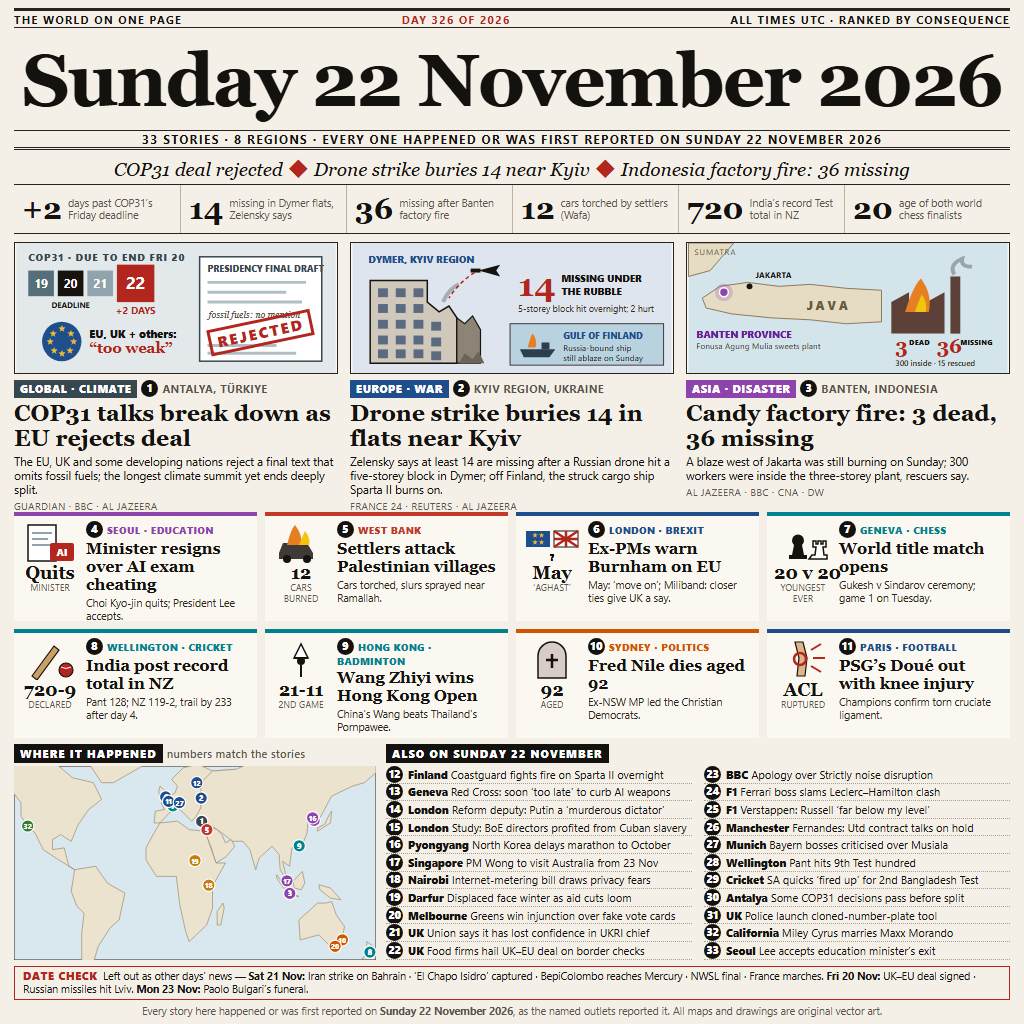
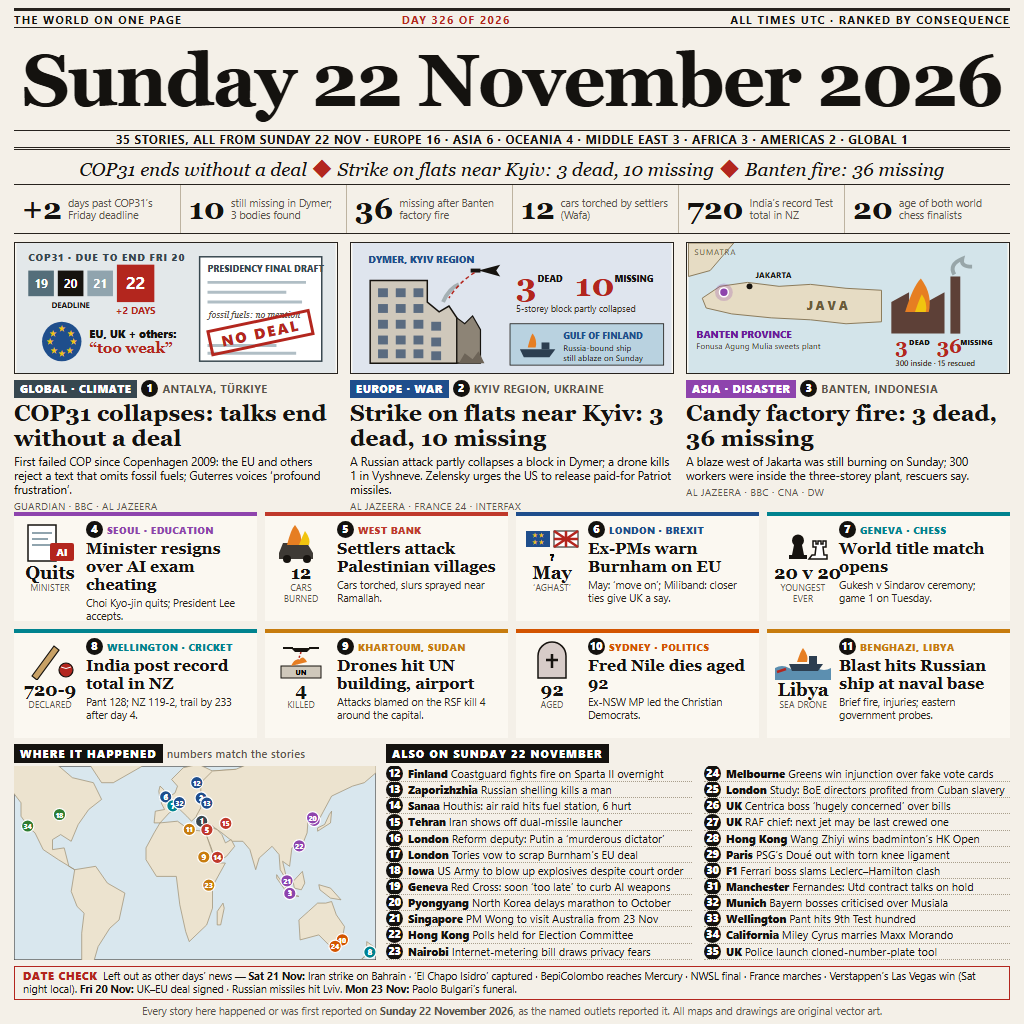
Add Sunday afternoon news: COP31 ends without deal, Dymer toll, Khartoum and Benghazi drone strikes, region tally

diff --git a/src/page.html b/src/page.html
@@ -19,7 +19,7 @@
   #top .red { color: var(--red); }
   #date { left: 50%; transform: translateX(-50%); top: 34px; font-size: 80px; line-height: 92px; font-weight: 700; letter-spacing: -.025em; white-space: nowrap; }
   #sub { left: 14px; right: 14px; top: 130px; height: 20px; border-top: 1px solid var(--rule); border-bottom: 3px double var(--rule);
-         text-align: center; font-size: 11.5px; font-weight: 700; letter-spacing: .14em; line-height: 17px; }
+         text-align: center; font-size: 11.5px; font-weight: 700; letter-spacing: .07em; line-height: 17px; white-space: nowrap; }
   #lead { left: 14px; right: 14px; top: 154px; text-align: center; font-size: 19px; font-style: italic; white-space: nowrap; }
   #lead b { color: var(--red); font-style: normal; padding: 0 6px; }
 
@@ -57,7 +57,7 @@
   .hd { background: var(--ink); color: #fff; padding: 2px 6px; }
   #map { left: 14px; top: 766px; }
   #list { left: 386px; top: 766px; width: 624px; display: grid; grid-template-columns: 1fr 1fr; grid-auto-flow: column;
-          grid-template-rows: repeat(11, 17.6px); column-gap: 12px; }
+          grid-template-rows: repeat(12, 16.15px); column-gap: 12px; }
   .li { display: flex; gap: 5px; align-items: center; font-size: 11px; line-height: 13px; border-bottom: 1px dotted #a99f8c; white-space: nowrap; overflow: hidden; }
   .li .num { flex: 0 0 17px; margin: 0; }
   .li b { font-weight: 800; white-space: nowrap; }
@@ -71,12 +71,12 @@
 
 <div id="top" class="abs"><span>THE WORLD ON ONE PAGE</span><span class="red">DAY 326 OF 2026</span><span>ALL TIMES UTC · RANKED BY CONSEQUENCE</span></div>
 <div id="date" class="abs serif">Sunday 22 November 2026</div>
-<div id="sub" class="abs">33 STORIES · 8 REGIONS · EVERY ONE HAPPENED OR WAS FIRST REPORTED ON SUNDAY 22 NOVEMBER 2026</div>
-<div id="lead" class="abs serif">COP31 deal rejected<b>◆</b>Drone strike buries 14 near Kyiv<b>◆</b>Indonesia factory fire: 36 missing</div>
+<div id="sub" class="abs">35 STORIES, ALL FROM SUNDAY 22 NOV · EUROPE 16 · ASIA 6 · OCEANIA 4 · MIDDLE EAST 3 · AFRICA 3 · AMERICAS 2 · GLOBAL 1</div>
+<div id="lead" class="abs serif">COP31 ends without a deal<b>◆</b>Strike on flats near Kyiv: 3 dead, 10 missing<b>◆</b>Banten fire: 36 missing</div>
 
 <div id="stats" class="abs">
   <div class="st"><span class="n">+2</span><span class="t">days past COP31’s Friday deadline</span></div>
-  <div class="st"><span class="n">14</span><span class="t">missing in Dymer flats, Zelensky says</span></div>
+  <div class="st"><span class="n">10</span><span class="t">still missing in Dymer; 3 bodies found</span></div>
   <div class="st"><span class="n">36</span><span class="t">missing after Banten factory fire</span></div>
   <div class="st"><span class="n">12</span><span class="t">cars torched by settlers (Wafa)</span></div>
   <div class="st"><span class="n">720</span><span class="t">India’s record Test total in NZ</span></div>
@@ -114,13 +114,13 @@
       <text x="9" y="62" font-size="9" font-style="italic" fill="#5a544b" font-family="Georgia">fossil fuels: no mention</text>
       <g transform="translate(62,78) rotate(-12)">
         <rect x="-52" y="-13" width="104" height="24" fill="none" stroke="#b3261e" stroke-width="3"/>
-        <text x="0" y="5" font-size="15" font-weight="800" fill="#b3261e" text-anchor="middle" font-family="Segoe UI" letter-spacing="2">REJECTED</text>
+        <text x="0" y="5" font-size="15" font-weight="800" fill="#b3261e" text-anchor="middle" font-family="Segoe UI" letter-spacing="2">NO DEAL</text>
       </g>
     </g>
   </svg>
   <span class="tag" style="background:var(--gl)">GLOBAL · CLIMATE</span><span class="loc"><span class="num">1</span>ANTALYA, TÜRKIYE</span>
-  <h2>COP31 talks break down as EU rejects deal</h2>
-  <p>The EU, UK and some developing nations reject a final text that omits fossil fuels; the longest climate summit yet ends deeply split.</p>
+  <h2>COP31 collapses: talks end without a deal</h2>
+  <p>First failed COP since Copenhagen 2009: the EU and others reject a text that omits fossil fuels; Guterres voices ‘profound frustration’.</p>
   <div class="src">Guardian · BBC · Al Jazeera</div>
 </div>
 
@@ -147,10 +147,11 @@
     <path d="M124,30 Q108,40 98,56" fill="none" stroke="#b3261e" stroke-width="1.5" stroke-dasharray="4 3"/>
     <text x="16" y="20" font-size="10" font-weight="800" fill="#1f4e8c" font-family="Segoe UI">DYMER, KYIV REGION</text>
     <!-- figures -->
-    <text x="168" y="54" font-size="34" font-weight="800" fill="#b3261e" font-family="Georgia">14</text>
-    <text x="212" y="40" font-size="10" font-weight="800" fill="#16130f" font-family="Segoe UI">MISSING UNDER</text>
-    <text x="212" y="53" font-size="10" font-weight="800" fill="#16130f" font-family="Segoe UI">THE RUBBLE</text>
-    <text x="168" y="70" font-size="9" fill="#3a2f22" font-family="Segoe UI">5-storey block hit overnight; 2 hurt</text>
+    <text x="166" y="54" font-size="34" font-weight="800" fill="#b3261e" font-family="Georgia">3</text>
+    <text x="188" y="40" font-size="9" font-weight="800" fill="#16130f" font-family="Segoe UI">DEAD</text>
+    <text x="226" y="54" font-size="34" font-weight="800" fill="#b3261e" font-family="Georgia">10</text>
+    <text x="266" y="40" font-size="9" font-weight="800" fill="#16130f" font-family="Segoe UI">MISSING</text>
+    <text x="166" y="70" font-size="9" fill="#3a2f22" font-family="Segoe UI">5-storey block partly collapsed</text>
     <!-- ship still burning off Finland -->
     <rect x="160" y="82" width="156" height="42" fill="#b9d2e0" stroke="#16130f" stroke-width=".8"/>
     <g transform="translate(170,108)"><path d="M0,0 h36 l-6,8 h-26 z" fill="#2c3e50"/><rect x="22" y="-7" width="8" height="7" fill="#2c3e50"/><path d="M8,-2 q3,-12 5,-14 q5,7 3,14z" fill="#e67e22"/></g>
@@ -159,9 +160,9 @@
     <text x="214" y="120" font-size="8.5" fill="#16130f" font-family="Segoe UI">still ablaze on Sunday</text>
   </svg>
   <span class="tag" style="background:var(--eu)">EUROPE · WAR</span><span class="loc"><span class="num">2</span>KYIV REGION, UKRAINE</span>
-  <h2>Drone strike buries 14 in flats near Kyiv</h2>
-  <p>Zelensky says at least 14 are missing after a Russian drone hit a five-storey block in Dymer; off Finland, the struck cargo ship Sparta II burns on.</p>
-  <div class="src">France 24 · Reuters · Al Jazeera</div>
+  <h2>Strike on flats near Kyiv: 3 dead, 10 missing</h2>
+  <p>A Russian attack partly collapses a block in Dymer; a drone kills 1 in Vyshneve. Zelensky urges the US to release paid-for Patriot missiles.</p>
+  <div class="src">Al Jazeera · France 24 · Interfax</div>
 </div>
 
 <!-- HERO 3: Indonesia -->
@@ -232,12 +233,12 @@
     <h3>India post record total in NZ</h3>
     <p>Pant 128; NZ 119-2, trail by 233 after day 4.</p>
   </div>
-  <div class="card" style="border-color:var(--sp)">
-    <div class="ic"><svg width="56" height="40" viewBox="0 0 56 40"><path d="M28,4 l-7,14 h14 z" fill="#fff" stroke="#16130f" stroke-width="1.5"/><path d="M21,18 h14" stroke="#16130f" stroke-width="2"/><circle cx="28" cy="21" r="4" fill="#16130f"/><path d="M28,25 v12" stroke="#16130f" stroke-width="2"/></svg>
-      <div class="big">21-11</div><div class="bl">2nd game</div></div>
-    <div class="k" style="color:var(--sp)"><span class="num">9</span>Hong Kong · Badminton</div>
-    <h3>Wang Zhiyi wins Hong Kong Open</h3>
-    <p>China’s Wang beats Thailand’s Pornpawee.</p>
+  <div class="card" style="border-color:var(--af)">
+    <div class="ic"><svg width="56" height="40" viewBox="0 0 56 40"><g fill="#16130f"><path d="M18,8 h20 l-4,4 h-12 z"/><rect x="10" y="7" width="10" height="2"/><rect x="36" y="7" width="10" height="2"/></g><path d="M28,12 l-4,12" stroke="#b3261e" stroke-width="1.5" stroke-dasharray="2 2"/><rect x="8" y="26" width="40" height="12" fill="#cfc8bb" stroke="#16130f"/><text x="28" y="35" font-size="7" font-weight="800" text-anchor="middle" font-family="Segoe UI">UN</text><path d="M18,26 q4,-8 8,-6 q4,-6 8,2" fill="#e67e22"/></svg>
+      <div class="big">4</div><div class="bl">killed</div></div>
+    <div class="k" style="color:var(--af)"><span class="num">9</span>Khartoum, Sudan</div>
+    <h3>Drones hit UN building, airport</h3>
+    <p>Attacks blamed on the RSF kill 4 around the capital.</p>
   </div>
   <div class="card" style="border-color:var(--oc)">
     <div class="ic"><svg width="56" height="40" viewBox="0 0 56 40"><path d="M14,38 v-22 a14,14 0 0 1 28,0 v22 z" fill="#d7ccc8" stroke="#16130f" stroke-width="1.5"/><path d="M28,14 v14 M22,20 h12" stroke="#16130f" stroke-width="2.5"/></svg>
@@ -246,12 +247,12 @@
     <h3>Fred Nile dies aged 92</h3>
     <p>Ex-NSW MP led the Christian Democrats.</p>
   </div>
-  <div class="card" style="border-color:var(--eu)">
-    <div class="ic"><svg width="56" height="40" viewBox="0 0 56 40"><path d="M20,2 l4,16 l-2,18 h8 l2,-18 l-4,-16 z" fill="#e0b48a" stroke="#16130f" stroke-width="1.2"/><circle cx="25" cy="19" r="6" fill="none" stroke="#b3261e" stroke-width="2.5"/><path d="M36,10 l10,-6 M38,18 h12 M36,26 l10,6" stroke="#b3261e" stroke-width="2"/></svg>
-      <div class="big">ACL</div><div class="bl">ruptured</div></div>
-    <div class="k" style="color:var(--eu)"><span class="num">11</span>Paris · Football</div>
-    <h3>PSG’s Doué out with knee injury</h3>
-    <p>Champions confirm torn cruciate ligament.</p>
+  <div class="card" style="border-color:var(--af)">
+    <div class="ic"><svg width="56" height="40" viewBox="0 0 56 40"><path d="M0,28 q7,-4 14,0 t14,0 t14,0 t14,0 v12 h-56z" fill="#5c8fb0"/><path d="M14,24 h34 l-5,7 h-26 z" fill="#2c3e50"/><rect x="34" y="16" width="8" height="8" fill="#2c3e50"/><path d="M22,22 q4,-12 6,-14 q6,8 4,14z" fill="#e67e22"/><path d="M2,32 l9,-3" stroke="#b3261e" stroke-width="2.5"/></svg>
+      <div class="big">Libya</div><div class="bl">sea drone</div></div>
+    <div class="k" style="color:var(--af)"><span class="num">11</span>Benghazi, Libya</div>
+    <h3>Blast hits Russian ship at naval base</h3>
+    <p>Brief fire, injuries; eastern government probes.</p>
   </div>
 </div>
 
@@ -261,30 +262,32 @@
 <div id="listhead" class="abs"><span class="hd">ALSO ON SUNDAY 22 NOVEMBER</span></div>
 <div id="list" class="abs">
   <div class="li"><span class="num">12</span><span><b>Finland</b> Coastguard fights fire on Sparta II overnight</span></div>
-  <div class="li"><span class="num">13</span><span><b>Geneva</b> Red Cross: soon ‘too late’ to curb AI weapons</span></div>
-  <div class="li"><span class="num">14</span><span><b>London</b> Reform deputy: Putin a ‘murderous dictator’</span></div>
-  <div class="li"><span class="num">15</span><span><b>London</b> Study: BoE directors profited from Cuban slavery</span></div>
-  <div class="li"><span class="num">16</span><span><b>Pyongyang</b> North Korea delays marathon to October</span></div>
-  <div class="li"><span class="num">17</span><span><b>Singapore</b> PM Wong to visit Australia from 23 Nov</span></div>
-  <div class="li"><span class="num">18</span><span><b>Nairobi</b> Internet-metering bill draws privacy fears</span></div>
-  <div class="li"><span class="num">19</span><span><b>Darfur</b> Displaced face winter as aid cuts loom</span></div>
-  <div class="li"><span class="num">20</span><span><b>Melbourne</b> Greens win injunction over fake vote cards</span></div>
-  <div class="li"><span class="num">21</span><span><b>UK</b> Union says it has lost confidence in UKRI chief</span></div>
-  <div class="li"><span class="num">22</span><span><b>UK</b> Food firms hail UK–EU deal on border checks</span></div>
-  <div class="li"><span class="num">23</span><span><b>BBC</b> Apology over Strictly noise disruption</span></div>
-  <div class="li"><span class="num">24</span><span><b>F1</b> Ferrari boss slams Leclerc–Hamilton clash</span></div>
-  <div class="li"><span class="num">25</span><span><b>F1</b> Verstappen: Russell ‘far below my level’</span></div>
-  <div class="li"><span class="num">26</span><span><b>Manchester</b> Fernandes: Utd contract talks on hold</span></div>
-  <div class="li"><span class="num">27</span><span><b>Munich</b> Bayern bosses criticised over Musiala</span></div>
-  <div class="li"><span class="num">28</span><span><b>Wellington</b> Pant hits 9th Test hundred</span></div>
-  <div class="li"><span class="num">29</span><span><b>Cricket</b> SA quicks ‘fired up’ for 2nd Bangladesh Test</span></div>
-  <div class="li"><span class="num">30</span><span><b>Antalya</b> Some COP31 decisions pass before split</span></div>
-  <div class="li"><span class="num">31</span><span><b>UK</b> Police launch cloned-number-plate tool</span></div>
-  <div class="li"><span class="num">32</span><span><b>California</b> Miley Cyrus marries Maxx Morando</span></div>
-  <div class="li"><span class="num">33</span><span><b>Seoul</b> Lee accepts education minister’s exit</span></div>
+  <div class="li"><span class="num">13</span><span><b>Zaporizhzhia</b> Russian shelling kills a man</span></div>
+  <div class="li"><span class="num">14</span><span><b>Sanaa</b> Houthis: air raid hits fuel station, 6 hurt</span></div>
+  <div class="li"><span class="num">15</span><span><b>Tehran</b> Iran shows off dual-missile launcher</span></div>
+  <div class="li"><span class="num">16</span><span><b>London</b> Reform deputy: Putin a ‘murderous dictator’</span></div>
+  <div class="li"><span class="num">17</span><span><b>London</b> Tories vow to scrap Burnham’s EU deal</span></div>
+  <div class="li"><span class="num">18</span><span><b>Iowa</b> US Army to blow up explosives despite court order</span></div>
+  <div class="li"><span class="num">19</span><span><b>Geneva</b> Red Cross: soon ‘too late’ to curb AI weapons</span></div>
+  <div class="li"><span class="num">20</span><span><b>Pyongyang</b> North Korea delays marathon to October</span></div>
+  <div class="li"><span class="num">21</span><span><b>Singapore</b> PM Wong to visit Australia from 23 Nov</span></div>
+  <div class="li"><span class="num">22</span><span><b>Hong Kong</b> Polls held for Election Committee</span></div>
+  <div class="li"><span class="num">23</span><span><b>Nairobi</b> Internet-metering bill draws privacy fears</span></div>
+  <div class="li"><span class="num">24</span><span><b>Melbourne</b> Greens win injunction over fake vote cards</span></div>
+  <div class="li"><span class="num">25</span><span><b>London</b> Study: BoE directors profited from Cuban slavery</span></div>
+  <div class="li"><span class="num">26</span><span><b>UK</b> Centrica boss ‘hugely concerned’ over bills</span></div>
+  <div class="li"><span class="num">27</span><span><b>UK</b> RAF chief: next jet may be last crewed one</span></div>
+  <div class="li"><span class="num">28</span><span><b>Hong Kong</b> Wang Zhiyi wins badminton’s HK Open</span></div>
+  <div class="li"><span class="num">29</span><span><b>Paris</b> PSG’s Doué out with torn knee ligament</span></div>
+  <div class="li"><span class="num">30</span><span><b>F1</b> Ferrari boss slams Leclerc–Hamilton clash</span></div>
+  <div class="li"><span class="num">31</span><span><b>Manchester</b> Fernandes: Utd contract talks on hold</span></div>
+  <div class="li"><span class="num">32</span><span><b>Munich</b> Bayern bosses criticised over Musiala</span></div>
+  <div class="li"><span class="num">33</span><span><b>Wellington</b> Pant hits 9th Test hundred</span></div>
+  <div class="li"><span class="num">34</span><span><b>California</b> Miley Cyrus marries Maxx Morando</span></div>
+  <div class="li"><span class="num">35</span><span><b>UK</b> Police launch cloned-number-plate tool</span></div>
 </div>
 
-<div id="check" class="abs"><span class="rk">DATE CHECK</span> &nbsp;Left out as other days’ news — <b>Sat 21 Nov:</b> Iran strike on Bahrain · ‘El Chapo Isidro’ captured · BepiColombo reaches Mercury · NWSL final · France marches. <b>Fri 20 Nov:</b> UK–EU deal signed · Russian missiles hit Lviv. <b>Mon 23 Nov:</b> Paolo Bulgari’s funeral.</div>
+<div id="check" class="abs"><span class="rk">DATE CHECK</span> &nbsp;Left out as other days’ news — <b>Sat 21 Nov:</b> Iran strike on Bahrain · ‘El Chapo Isidro’ captured · BepiColombo reaches Mercury · NWSL final · France marches · Verstappen’s Las Vegas win (Sat night local). <b>Fri 20 Nov:</b> UK–EU deal signed · Russian missiles hit Lviv. <b>Mon 23 Nov:</b> Paolo Bulgari’s funeral.</div>
 <div id="foot" class="abs">Every story here happened or was first reported on <b>Sunday 22 November 2026</b>, as the named outlets reported it. All maps and drawings are original vector art.</div>
 
 <script>
@@ -308,9 +311,10 @@ const land = [
 // story pins: [number, lon, lat, colour]
 const pins = [
   [1,30.7,36.9,'#37474f'],[2,30.3,50.8,'#1f4e8c'],[12,26.5,60.0,'#1f4e8c'],[3,106.2,-6.2,'#8e44ad'],[4,127.0,37.5,'#8e44ad'],
-  [5,35.2,31.9,'#c0392b'],[6,-0.1,51.5,'#1f4e8c'],[7,6.1,46.2,'#00838f'],[8,174.8,-41.3,'#00838f'],[9,114.2,22.3,'#00838f'],
-  [10,151.2,-33.9,'#d35400'],[11,2.35,48.85,'#1f4e8c'],[16,125.7,39.0,'#8e44ad'],[17,103.8,1.35,'#8e44ad'],[18,36.8,-1.3,'#c77c0e'],
-  [19,25.0,13.5,'#c77c0e'],[20,145.0,-37.8,'#d35400'],[27,11.6,48.1,'#1f4e8c'],[32,-118.3,34.1,'#2e7d32']
+  [5,35.2,31.9,'#c0392b'],[6,-0.1,51.5,'#1f4e8c'],[7,6.1,46.2,'#00838f'],[8,174.8,-41.3,'#00838f'],[9,32.5,15.6,'#c77c0e'],
+  [10,151.2,-33.9,'#d35400'],[11,20.1,32.1,'#c77c0e'],[13,35.1,47.8,'#1f4e8c'],[14,44.2,15.4,'#c0392b'],[15,51.4,35.7,'#c0392b'],
+  [18,-91.0,41.0,'#2e7d32'],[20,125.7,39.0,'#8e44ad'],[21,103.8,1.35,'#8e44ad'],[22,114.2,22.3,'#8e44ad'],[23,36.8,-1.3,'#c77c0e'],
+  [24,145.0,-37.8,'#d35400'],[32,11.6,48.1,'#1f4e8c'],[34,-118.3,34.1,'#2e7d32']
 ];
 // Fit the masthead date to the page width.
 const dateEl = document.getElementById('date');
